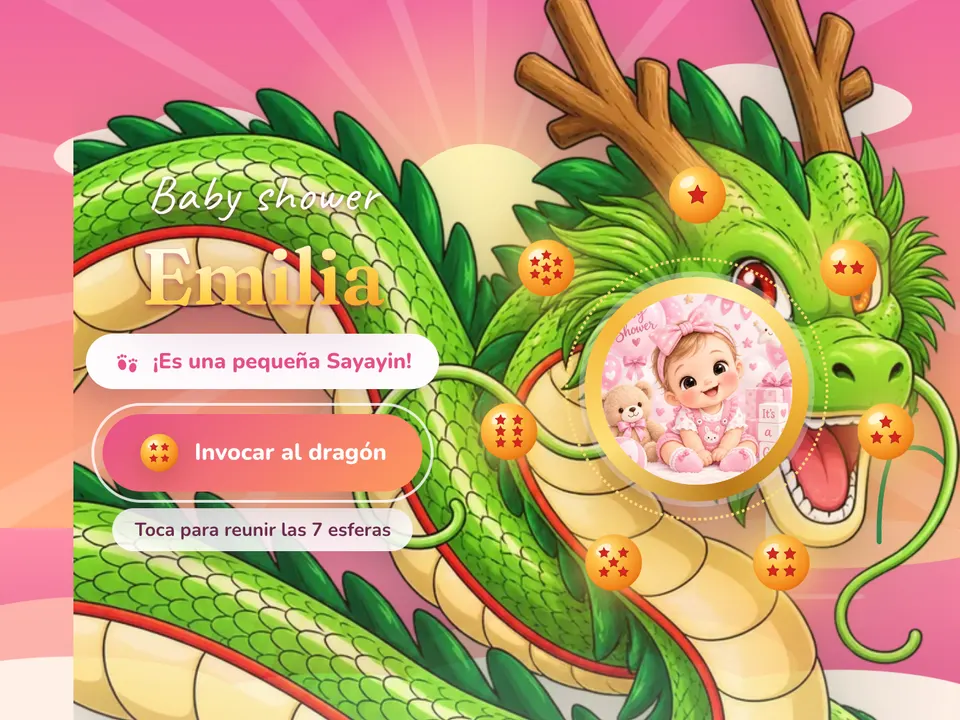
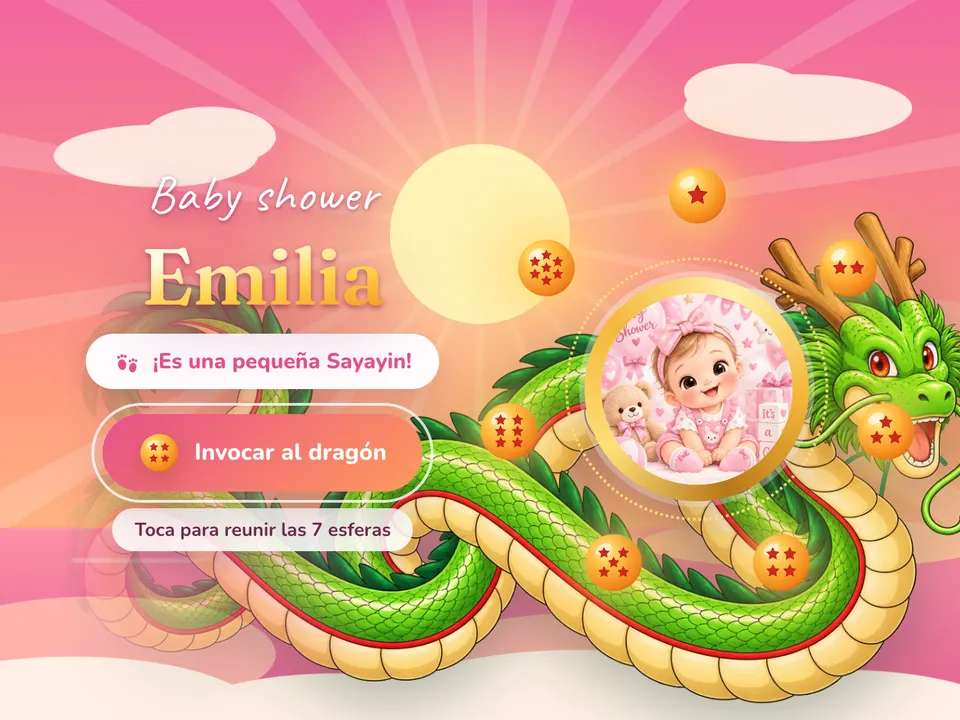
Baby shower dragón: dragón horizontal para escritorio

diff --git a/src/templates/baby-shower-dragon/Experience.jsx b/src/templates/baby-shower-dragon/Experience.jsx
@@ -12,6 +12,7 @@ import { DragonBall } from "./Dragon.jsx";
 import Icon from "./Icons.jsx";
 import { babyIllustration } from "../baby-shower/media/index.js";
 import dragonSrc from "./media/dragon.webp";
+import dragonWideSrc from "./media/dragon-wide.webp";
 import Scenery from "./Scenery.jsx";
 import "./styles.css";
 
@@ -293,7 +294,11 @@ export default function BabyShowerDragonExperience({ content, mode, onEvent, res
 
       {/* 1. Portada: las 7 esferas se encienden una a una y el dragón sube detrás del aro */}
       <section className="bsd-panel bsd-cover" aria-label="Portada">
-        <img className="bsd-cover__dragon" src={dragonSrc} width="720" height="1279" alt="" aria-hidden="true" decoding="async" />
+        <picture className="bsd-cover__dragon" aria-hidden="true">
+          {/* Escritorio y horizontal: el dragón largo; móvil vertical: el enroscado */}
+          <source media="(min-width: 1024px), (orientation: landscape) and (max-height: 520px)" srcSet={dragonWideSrc} width="1400" height="787" />
+          <img src={dragonSrc} width="720" height="1279" alt="" decoding="async" />
+        </picture>
         <div className="bsd-stage">
           <div className="bsd-orbit" aria-hidden="true">
             {ORBIT.map((n, i) => (

diff --git a/src/templates/baby-shower-dragon/styles.css b/src/templates/baby-shower-dragon/styles.css
@@ -968,10 +968,6 @@
 }
 
 /* Portada: escenario con las 7 esferas girando alrededor del aro */
-.bsd-cover {
-  overflow: clip;
-}
-
 .bsd-stage {
   position: relative;
   display: grid;
@@ -1025,6 +1021,7 @@
   height: auto;
   opacity: 0;
   transform: translateY(14%) scale(0.9);
+  display: block;
   transform-origin: 70% 100%;
   pointer-events: none;
   /* Se ve nítido arriba y se difumina hacia abajo hasta desaparecer */
@@ -1107,4 +1104,23 @@
 
 .bsd[data-open] .bsd-cover__text::before {
   opacity: 1;
+}
+
+.bsd-cover__dragon img {
+  display: block;
+  width: 100%;
+  height: auto;
+}
+
+/* Escritorio y horizontal: el dragón largo recorre la parte baja, con la cabeza a la derecha */
+@media (min-width: 1024px), (orientation: landscape) and (max-height: 520px) {
+  .bsd-cover__dragon {
+    /* el panel está centrado y angosto: el dragón se alinea con el borde de la pantalla */
+    grid-column: 1 / -1 !important;
+    inset: auto calc(50% - 50vw - 2vw) 0 auto;
+    width: min(96vw, 1500px);
+    transform-origin: 80% 100%;
+    -webkit-mask-image: linear-gradient(to right, transparent 0%, #000 34%);
+    mask-image: linear-gradient(to right, transparent 0%, #000 34%);
+  }
 }

diff --git a/docs/CAMBIOS.md b/docs/CAMBIOS.md
@@ -269,6 +269,6 @@ Verificación: `npm test` 80/80 · `npm run smoke` 5/5 tamaños (sin errores de 
 
 - Misma estructura que `baby-shower` (anuncio, detalles, mapa, cuenta regresiva, regalos, RSVP, álbum) con otra identidad: cielo de atardecer (niña) / cielo abierto (niño) / morado (sorpresa), rayos de energía, aro dorado.
 - Portada = pantalla de apertura: 7 esferas giran alrededor del aro; "Invocar al dragón" las enciende una a una, sube el dragón y aparece "¡Tu deseo se cumplió!".
-- Esferas dibujadas en SVG propio (`Dragon.jsx`); el dragón es la imagen `media/dragon.webp` (PNG transparente que aportó el usuario, 720 px). Entra sola a la colección `baby-shower`.
+- Esferas dibujadas en SVG propio (`Dragon.jsx`); el dragón son dos imágenes que aportó el usuario: `media/dragon.webp` (vertical, móvil) y `media/dragon-wide.webp` (horizontal, escritorio y móvil horizontal), con `<picture>`. Entra sola a la colección `baby-shower`.
 - La portada sin foto usa las ilustraciones de bebé de `baby-shower/media` (dependencia entre plantillas).
 - Verificación: `npm test` 151/151, `npm run smoke` 5 tamaños OK, miniatura generada.
